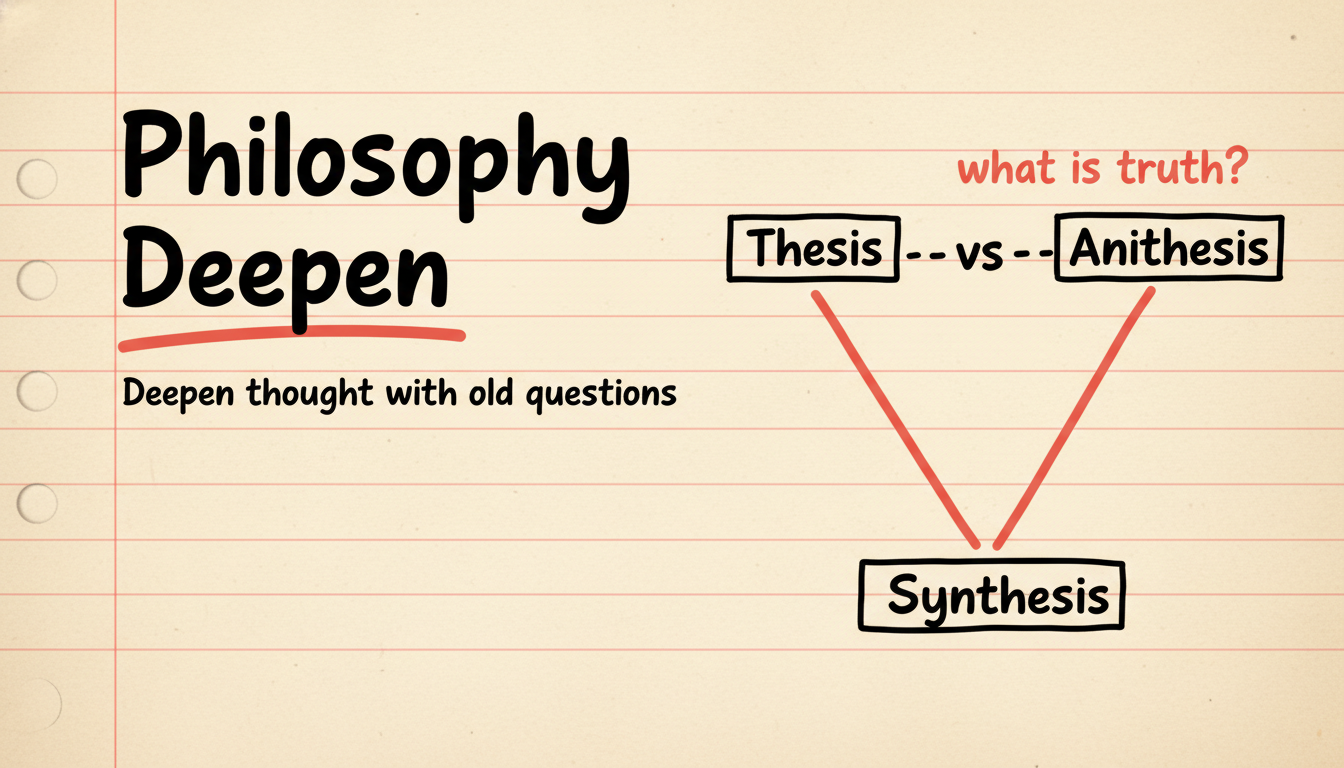
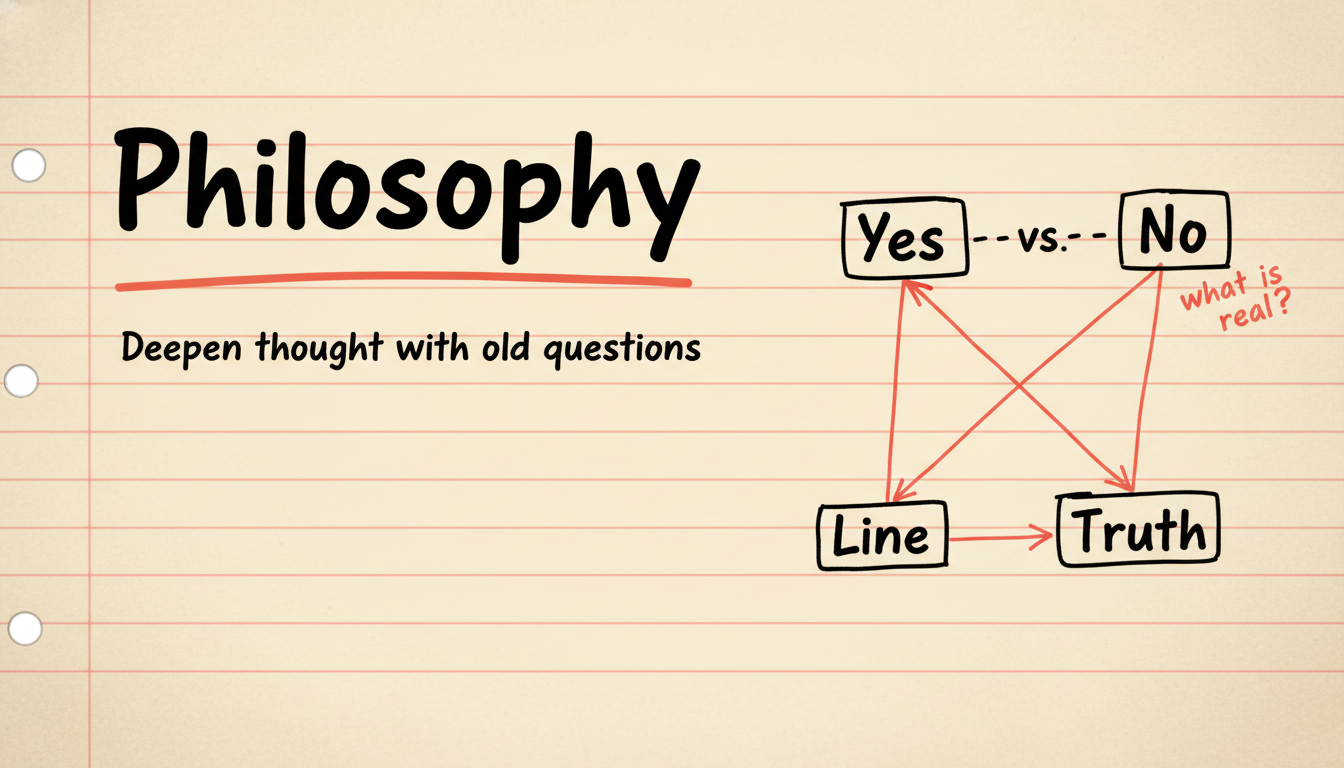
fix(thumbnails): correct 13 v3 thumbnails flagged by designer review
Critical content fixes (must-correct before users see them):
- course-strategy-01: short safe labels (Buyers/Sellers/New/Subs/Rivals)
- course-eastern-01/02: drop Chinese characters, English-only names
  (kanji kept getting mangled by Gemini)
- course-philosophy-01: replace Antithesis/Synthesis with Yes/No/Truth
- lesson-20 MECE: subtitle "No overlaps, no gaps" (was misspelled)
- lesson-23 Pyramid: subtitle "Top first, then reasons"
- lesson-27 Formal Logic: drop truth table (kept producing wrong truth
  values), use P → Q implies arrow chain instead
- lesson-41 Fallacies: re-render so the green check is only on the
  bottom "good logic" row (previously appeared on false-cause fallacy)
- lesson-51 → IDEAS FIRST (was DRAFT GUESSES, kept misspelling Guesses)
- lesson-56 → DESIGN with Feel/Frame/Ideas/Make/Test (was Empathize/
  Define/Ideate/Prototype/Test, all misspelled)
- lesson-58 → BUILD & TEST (Prototype misspelled)
- lesson-72 → ASK FOR ACTION (Proposal Purpose had r→k corruption)
- lesson-642 → ASK FOR MORE (Negotigate misspelled)

Changed region(s): [[0.0, 0.0, 1.0, 1.0], [0.875, 0.0938, 1.0, 0.125], [0.4375, 0.0938, 0.5, 0.125]]

diff --git a/scripts/lessonPromptsV2.ts b/scripts/lessonPromptsV2.ts
@@ -126,8 +126,9 @@ export const LESSON_PROMPTS: LessonPromptEntry[] = [
   {
     slug: 'lesson-20',
     title: 'MECE',
-    subtitle: 'Mutually Exclusive, Collectively Exhaustive',
-    diagram: `a hand-drawn 2x2 grid (about 55% of canvas width) with four labeled cells — top-left "A", top-right "B", bottom-left "C", bottom-right "D" — drawn with thick black marker borders, each cell label a single large hand-lettered marker letter centered in its cell. Above the grid: a short down-arrow with handwritten annotation "no overlaps" (cursive). Below the grid: a short up-arrow with handwritten annotation "no gaps either" (cursive).`,
+    subtitle: 'No overlaps, no gaps',
+    diagram: `a hand-drawn 2x2 grid (about 55% of canvas width) with four labeled cells — top-left "A", top-right "B", bottom-left "C", bottom-right "D" — drawn with thick black marker borders, each cell label a single large hand-lettered marker letter centered in its cell. Above the grid: a short down-arrow with handwritten annotation "no overlaps" (cursive). Below the grid: a short up-arrow with handwritten annotation "no gaps" (cursive).`,
+    spell: ['MECE', 'No overlaps, no gaps', 'A', 'B', 'C', 'D', 'no overlaps', 'no gaps'],
   },
   {
     slug: 'lesson-21',
@@ -144,8 +145,9 @@ export const LESSON_PROMPTS: LessonPromptEntry[] = [
   {
     slug: 'lesson-23',
     title: 'PYRAMID',
-    subtitle: 'Conclusion on top, reasons below',
-    diagram: `a hand-drawn three-tier pyramid built from rectangular boxes: a single wide box at the top labeled "Main Idea", three medium boxes in the middle row labeled "Reason 1", "Reason 2", "Reason 3", and five small boxes at the bottom labeled "Fact". Thick marker borders, light cream interior. To the side: handwritten annotation "top-down" (cursive).`,
+    subtitle: 'Top first, then reasons',
+    diagram: `a hand-drawn three-tier pyramid built from rectangular boxes: a single wide box at the top labeled "Main", three medium boxes in the middle row labeled "Reason 1", "Reason 2", "Reason 3", and five small boxes at the bottom labeled "Fact". Thick marker borders, light cream interior. A coral down-arrow runs along the right side from Main to the Facts row labeled "from top".`,
+    spell: ['PYRAMID', 'Top first, then reasons', 'Main', 'Reason 1', 'Reason 2', 'Reason 3', 'Fact', 'from top'],
   },
   {
     slug: 'lesson-24',
@@ -169,7 +171,8 @@ export const LESSON_PROMPTS: LessonPromptEntry[] = [
     slug: 'lesson-27',
     title: 'FORMAL LOGIC',
     subtitle: 'If P then Q',
-    diagram: `a hand-drawn truth table with three columns and four rows. Column headers: "P", "Q", "P → Q". Row entries: T/T/T, T/F/F, F/T/T, F/F/T. Drawn with thick black marker grid lines, each T or F is a single hand-lettered marker letter. Below the table: cursive annotation "valid implication".`,
+    diagram: `a hand-drawn implication chain on cream notebook paper: two stacked rectangular boxes connected vertically by a coral downward arrow. The top box is labeled "P" (a single large hand-lettered marker letter centered in the box). The bottom box is labeled "Q" (a single large hand-lettered marker letter centered in the box). The coral arrow between them is labeled with the cursive annotation "implies" alongside it. To the right of the boxes: the cursive note "P → Q". Below the chain: the cursive annotation "if P, then Q".`,
+    spell: ['FORMAL LOGIC', 'If P then Q', 'P', 'Q', 'implies', 'P → Q', 'if P, then Q'],
   },
   {
     slug: 'lesson-68',
@@ -215,7 +218,10 @@ export const LESSON_PROMPTS: LessonPromptEntry[] = [
     slug: 'lesson-41',
     title: 'LOGICAL FALLACIES',
     subtitle: 'Spot the broken arguments',
-    diagram: `a hand-drawn vertical list of three rows. Each row contains a short fallacy name in cursive (hand-lettered) marked with a coral red ✗ on the left: "ad hominem", "straw man", "false cause". Below the list: a single row with a green ✓ marking and the cursive label "valid argument". All hand-drawn with thick marker.`,
+    diagram: `a hand-drawn vertical list of four rows. Each of the top three rows starts with a coral red "X" mark on the left, then a short fallacy name in cursive marker: row 1 "X attack person", row 2 "X straw man", row 3 "X bad cause". The bottom (fourth) row starts with a green check "V" mark and the cursive label "good logic". All hand-drawn with thick marker.
+
+CRITICAL — the three fallacies (rows 1, 2, 3) MUST all have the red X mark (they are wrong). Only the bottom "good logic" row has the green check. Never put a green check next to a fallacy.`,
+    spell: ['LOGICAL FALLACIES', 'Spot the broken arguments', 'attack person', 'straw man', 'bad cause', 'good logic'],
   },
   {
     slug: 'lesson-42',
@@ -256,10 +262,10 @@ CRITICAL — the title at top-left must be exactly the four English words: LINK 
   },
   {
     slug: 'lesson-51',
-    title: 'DRAFT GUESSES',
+    title: 'IDEAS FIRST',
     subtitle: 'List candidates, then pick',
-    diagram: `three thought bubbles drawn side by side, each containing a short cursive label "Guess 1", "Guess 2", "Guess 3". A coral red circle is drawn around "Guess 2" with a cursive annotation "best one" pointing to it. Hand-drawn with thick marker.`,
-    spell: ['DRAFT GUESSES', 'List candidates, then pick', 'Guess 1', 'Guess 2', 'Guess 3', 'best one'],
+    diagram: `three thought bubbles drawn side by side, each containing a short cursive label "Idea 1", "Idea 2", "Idea 3". A coral red circle is drawn around "Idea 2" with a cursive annotation "best one" pointing to it. Hand-drawn with thick marker.`,
+    spell: ['IDEAS FIRST', 'List candidates, then pick', 'Idea 1', 'Idea 2', 'Idea 3', 'best one'],
   },
   {
     slug: 'lesson-52',
@@ -300,9 +306,10 @@ CRITICAL — the title at top-left must be exactly the four English words: LINK 
   // ── デザインシンキング ──────────────────────────────────────────
   {
     slug: 'lesson-56',
-    title: 'DESIGN THINKING',
+    title: 'DESIGN',
     subtitle: 'A five-stage cycle',
-    diagram: `a hand-drawn circular flow of five connected rectangular boxes arranged in a pentagon-like loop, each labeled in cursive: "Empathize", "Define", "Ideate", "Prototype", "Test". Curved arrows connect them clockwise. Thick black marker outlines.`,
+    diagram: `a hand-drawn circular flow of five small connected circles arranged in a pentagon, each labeled in cursive with ONE short word only: top "Feel", upper-right "Frame", lower-right "Ideas", lower-left "Make", upper-left "Test". Curved clockwise arrows connect them. Thick black marker outlines.\n\nUse only these 5 short words (Feel, Frame, Ideas, Make, Test) — do NOT write "Empathize", "Define", "Ideate", or "Prototype" anywhere.`,
+    spell: ['DESIGN', 'A five-stage cycle', 'Feel', 'Frame', 'Ideas', 'Make', 'Test'],
   },
   {
     slug: 'lesson-57',
@@ -313,9 +320,10 @@ CRITICAL — the title at top-left must be exactly the four English words: LINK 
   },
   {
     slug: 'lesson-58',
-    title: 'PROTOTYPE & TEST',
-    subtitle: 'Build it small, test it fast',
-    diagram: `a hand-drawn paper prototype (a small rectangle with two interface lines on it) being shown to a simple stick figure on the right. A speech bubble from the figure contains a cursive "feedback". Cursive annotation below: "iterate fast".`,
+    title: 'BUILD & TEST',
+    subtitle: 'Make small, test fast',
+    diagram: `a hand-drawn paper mockup (a small rectangle with two interface lines on it) being shown to a simple stick figure on the right. A speech bubble from the figure contains a cursive "feedback". Cursive annotation below: "loop it".`,
+    spell: ['BUILD & TEST', 'Make small, test fast', 'feedback', 'loop it'],
   },
 
   // ── ラテラルシンキング ─────────────────────────────────────────
@@ -383,9 +391,10 @@ CRITICAL — the title at top-left must be exactly the four English words: LINK 
   // ── 提案・伝える技術 ──────────────────────────────────────────
   {
     slug: 'lesson-72',
-    title: 'PROPOSAL PURPOSE',
-    subtitle: 'Define what the reader does',
-    diagram: `a hand-drawn rectangular bound proposal document on the left, with an arrow pointing right to a small target circle labeled "action". Cursive annotation: "what do they DO?".`,
+    title: 'ASK FOR ACTION',
+    subtitle: 'Decide what the reader does',
+    diagram: `a hand-drawn rectangular document on the left, with a thick coral arrow pointing right to a small bullseye labeled "do this". Cursive annotation below the document: "make it clear".`,
+    spell: ['ASK FOR ACTION', 'Decide what the reader does', 'do this', 'make it clear'],
   },
   {
     slug: 'lesson-73',

diff --git a/scripts/coursePromptsV2.ts b/scripts/coursePromptsV2.ts
@@ -107,8 +107,8 @@ export const COURSE_PROMPTS_V2: LessonPromptEntry[] = [
     slug: 'course-strategy-01',
     title: 'Strategy Classics',
     subtitle: 'Origins of strategy and competition',
-    diagram: 'a hand-drawn five-forces diagram on cream notebook paper: a central box "Rivalry" with four boxes around it — "Buyers" above, "Suppliers" below, "Entrants" left, "Subs" right — each connected to Rivalry by a coral line. Coral-red label "five forces" sits to the left of Entrants.',
-    spell: ['Strategy Classics', 'Buyers', 'Suppliers', 'Entrants', 'Subs', 'Rivalry', 'five forces'],
+    diagram: 'a hand-drawn five-forces diagram on cream notebook paper: a central box labeled "Rivals" with four boxes around it — "Buyers" above, "Sellers" below, "New" left, "Subs" right — each connected to the central Rivals by a coral line. Coral-red label "five forces" sits in the upper-right.\n\nSpell the four outer labels EXACTLY: Buyers (B-U-Y-E-R-S), Sellers (S-E-L-L-E-R-S), New (N-E-W), Subs (S-U-B-S). The center label is Rivals (R-I-V-A-L-S). Use these short safe words; do NOT write Entrants, Suppliers, Substitutes, or Rivalry.',
+    spell: ['Strategy Classics', 'Buyers', 'Sellers', 'New', 'Subs', 'Rivals', 'five forces'],
   },
   {
     slug: 'course-strategy-02',
@@ -142,22 +142,22 @@ export const COURSE_PROMPTS_V2: LessonPromptEntry[] = [
     slug: 'course-eastern-01',
     title: 'Eastern Wisdom I',
     subtitle: 'Ancient Chinese thought on people',
-    diagram: 'a hand-drawn 2x2 grid of four boxes on cream notebook paper, each box showing an English name (top) and Chinese characters (bottom): "Confucius / 孔子", "Mencius / 孟子", "Xunzi / 荀子", "Mozi / 墨子". Light dashed connectors link the boxes. Coral-red annotation "relations" upper-right.',
+    diagram: 'a hand-drawn 2x2 grid of four boxes on cream notebook paper. Each box contains ONLY an English name in hand-lettered marker, with NO Chinese characters: top-left "Confucius", top-right "Mencius", bottom-left "Xunzi", bottom-right "Mozi". Light dashed connectors link the boxes. Coral-red annotation "relations" upper-right.\n\nIMPORTANT: do NOT draw any Chinese / kanji / hanzi characters anywhere in the image. Only English names in marker handwriting.',
     spell: ['Eastern Wisdom I', 'Confucius', 'Mencius', 'Xunzi', 'Mozi', 'relations'],
   },
   {
     slug: 'course-eastern-02',
     title: 'Eastern Wisdom II',
     subtitle: 'Ancient Chinese thought on strategy',
-    diagram: 'a hand-drawn 2x2 grid of four boxes on cream notebook paper, each with an English name (top) and Chinese characters (bottom): "Laozi / 老子", "Zhuangzi / 荘子", "Han Fei / 韓非子", "Sun Tzu / 孫子". Light dashed connectors link the boxes. Coral-red annotation "win without war" upper-right.',
+    diagram: 'a hand-drawn 2x2 grid of four boxes on cream notebook paper. Each box contains ONLY an English name in hand-lettered marker, with NO Chinese characters: top-left "Laozi", top-right "Zhuangzi", bottom-left "Han Fei", bottom-right "Sun Tzu". Light dashed connectors link the boxes. Coral-red annotation "win without war" upper-right.\n\nIMPORTANT: do NOT draw any Chinese / kanji / hanzi characters anywhere in the image. Only English names in marker handwriting.',
     spell: ['Eastern Wisdom II', 'Laozi', 'Zhuangzi', 'Han Fei', 'Sun Tzu', 'win without war'],
   },
   {
     slug: 'course-philosophy-01',
     title: 'Philosophy',
     subtitle: 'Deepen thought with old questions',
-    diagram: 'a hand-drawn dialectic triangle on cream notebook paper: a "Thesis" box upper-left connected by a dashed line labeled "vs" to an "Antithesis" box upper-right; both converge with coral lines down to a "Synthesis" box at the bottom-center. Coral-red annotation "what is truth?" upper-right.',
-    spell: ['Philosophy', 'Thesis', 'Antithesis', 'Synthesis', 'vs', 'what is truth'],
+    diagram: 'a hand-drawn dialectic triangle on cream notebook paper: a box labeled "Yes" upper-left connected by a dashed line labeled "vs" to a box labeled "No" upper-right; both converge with coral lines down to a box labeled "Truth" at the bottom-center. Coral-red annotation "what is real?" upper-right.\n\nUse the simple short words "Yes", "No", "Truth" only — do NOT attempt to write "Antithesis" or "Synthesis" (Gemini consistently misspells those).',
+    spell: ['Philosophy', 'Yes', 'No', 'Truth', 'vs', 'what is real'],
   },
   {
     slug: 'course-design-01',

diff --git a/scripts/careerPromptsV2.ts b/scripts/careerPromptsV2.ts
@@ -332,10 +332,10 @@ export const CAREER_LESSON_PROMPTS: LessonPromptEntry[] = [
   },
   {
     slug: 'lesson-642',
-    title: 'NEGOTIATE',
-    subtitle: 'Ask with grace',
-    diagram: `a hand-drawn balance scale in the center. Left pan labeled "offer", right pan labeled "your value". A coral arrow points to the small space between the pans labeled "gap". Cursive annotation below the scale: "close with grace".`,
-    spell: ['NEGOTIATE', 'Ask with grace', 'offer', 'your value', 'gap', 'close with grace'],
+    title: 'ASK FOR MORE',
+    subtitle: 'Bridge the offer gap',
+    diagram: `a hand-drawn balance scale in the center. Left pan labeled "offer", right pan labeled "your value". A coral arrow points to the small space between the pans labeled "gap". Cursive annotation below the scale: "bridge it".`,
+    spell: ['ASK FOR MORE', 'Bridge the offer gap', 'offer', 'your value', 'gap', 'bridge it'],
   },
   {
     slug: 'lesson-643',
